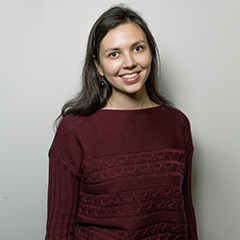
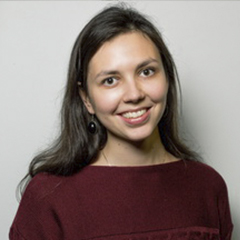
Add new photos, replace placeholder to photo

diff --git a/index-eng.html b/index-eng.html
@@ -215,7 +215,7 @@
 	        Board Games Project
 	      </div>
 	      <div>
-	        <img src="images/headshot_placeholder.png" width="100%" alt="">
+	        <img src="images/slides/olga_artyx.jpg" width="100%" alt="">
 	        <h3>Olga Artsiukh</h3>
 	        Project Manager
 	      </div>

diff --git a/index.html b/index.html
@@ -215,7 +215,7 @@
 					Проект Board Games
 				</div>
 				<div>
-					<img src="images/headshot_placeholder.png" width="100%" alt="">
+					<img src="images/slides/olga_artyx.jpg" width="100%" alt="">
 					<h3>Ольга Артюх</h3>
 					Проект-менеджер
 				</div>
